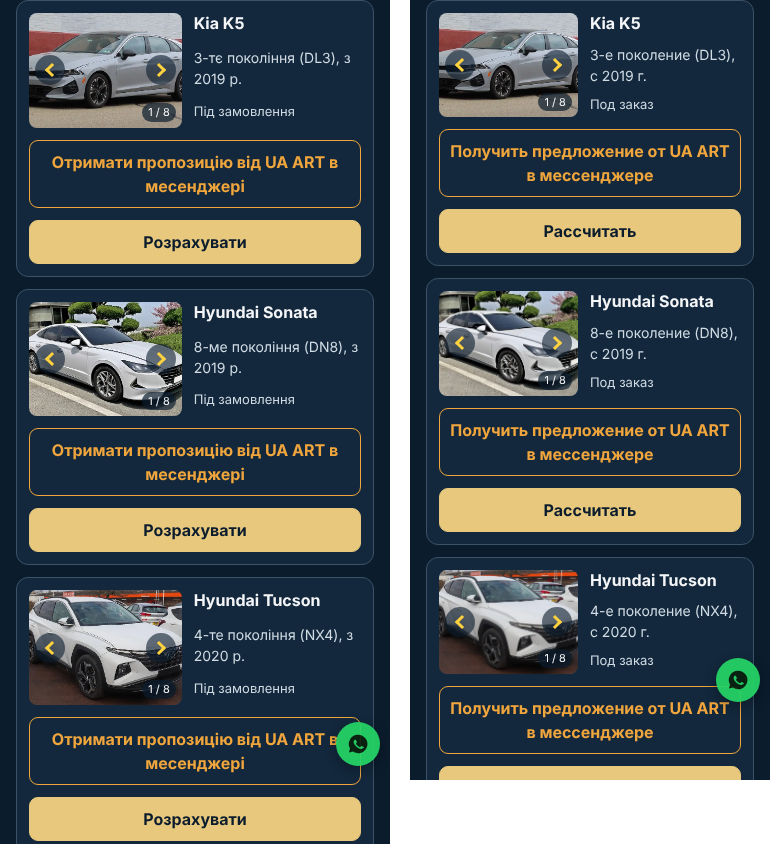
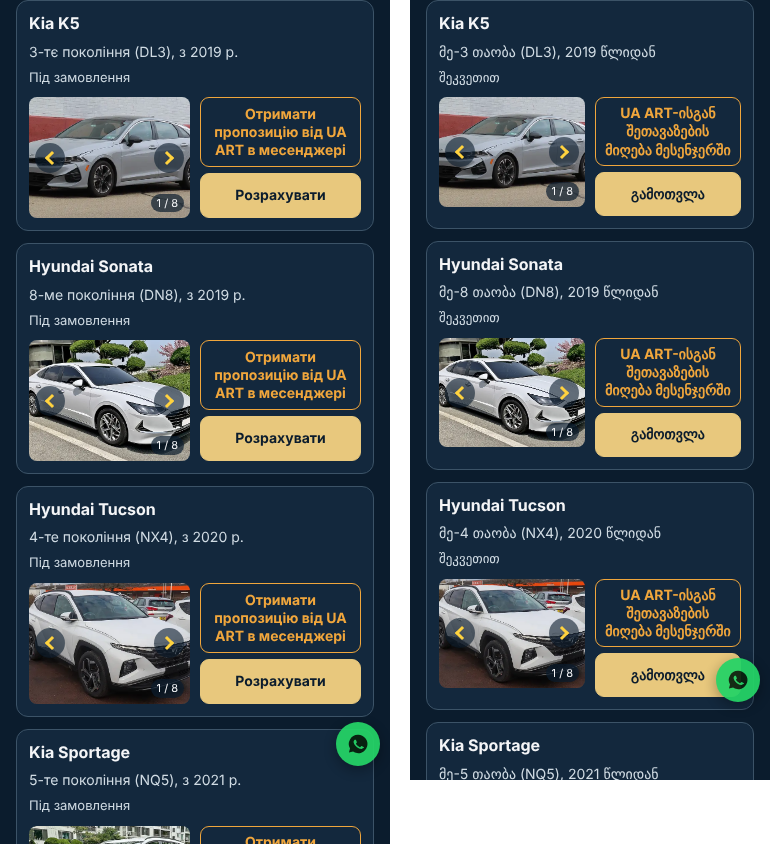
MODEL-GALLERY-001: phone card — name on top, photo left with both buttons stacked right (square block); preview R4 request
Claude-Session: https://claude.ai/code/session_0172XcuYMDyo6BFAXzekqysj

diff --git a/cloud/model_gallery_install_001/site/gallery.css b/cloud/model_gallery_install_001/site/gallery.css
@@ -16,14 +16,19 @@
 .ua-order .gallery-next::after { right:22px; transform:rotate(-45deg); }
 .ua-order .gallery-count { position:absolute; right:8px; bottom:8px; padding:2px 8px; border-radius:10px; background:rgba(11,28,45,.7); color:#f4f5f7; font-size:12px; line-height:1.5; pointer-events:none; }
 .ua-order .model .generation { font-size:14px; color:#d0dbe3; }
-/* Phones (the site's own 640px breakpoint): photo on the left beside the name and generation,
-   the card's buttons full width below both, so long button texts stay readable. */
+/* Phones (the site's own 640px breakpoint): name, generation and tag on top across the card;
+   below them the photo on the left and the card's buttons stacked on the right, one square block. */
 @media(max-width:640px) {
- .ua-order .model:has(> .model-media > .gallery) { display:grid; grid-template-columns:minmax(0,46%) minmax(0,1fr); grid-auto-rows:auto; column-gap:12px; row-gap:6px; padding:12px; align-items:start; }
+ .ua-order .model:has(> .model-media > .gallery) { display:grid; grid-template-columns:minmax(0,1fr) minmax(0,1fr); column-gap:10px; row-gap:6px; padding:12px; }
  .ua-order .model:has(> .model-media > .gallery) > .model-info { display:contents; }
- .ua-order .model-media:has(> .gallery) { grid-column:1; grid-row:1 / span 3; width:auto; min-height:0; aspect-ratio:4/3; border-radius:8px; }
- .ua-order .model:has(> .model-media > .gallery) .model-info > :not(button) { grid-column:2; }
- .ua-order .model:has(> .model-media > .gallery) .model-info > button { grid-column:1 / -1; margin-top:6px; }
+ .ua-order .model:has(> .model-media > .gallery) h3 { grid-row:1; grid-column:1 / -1; }
+ .ua-order .model:has(> .model-media > .gallery) .generation { grid-row:2; grid-column:1 / -1; }
+ .ua-order .model:has(> .model-media > .gallery) .tag { grid-row:3; grid-column:1 / -1; }
+ .ua-order .model-media:has(> .gallery) { grid-row:4 / span 2; grid-column:1; width:auto; min-height:0; aspect-ratio:4/3; border-radius:8px; margin-top:4px; }
+ .ua-order .model:has(> .model-media > .gallery) .model-info > button { grid-column:2; margin-top:0; padding:6px 8px; font-size:14px; line-height:1.3; }
+ .ua-order .model:has(> .model-media > .gallery) .model-info > button:nth-last-of-type(2) { grid-row:4; margin-top:4px; }
+ .ua-order .model:has(> .model-media > .gallery) .model-info > button:last-of-type { grid-row:5; }
+ .ua-order .model:has(> .model-media > .gallery) .model-info > button:only-of-type { grid-row:4 / span 2; align-self:end; }
  .ua-order .gallery > button::before { width:30px; height:30px; margin-top:-15px; }
  .ua-order .gallery > button::after { width:10px; height:10px; margin-top:-5px; }
  .ua-order .gallery-prev::before { left:6px; } .ua-order .gallery-next::before { right:6px; }

diff --git a/cloud/model_gallery_install_001/gallery_assets.py b/cloud/model_gallery_install_001/gallery_assets.py
@@ -2,7 +2,7 @@
 PHOTO_MODULES = ('photos_a', 'photos_b', 'photos_c', 'photos_d', 'photos_e', 'photos_f', 'photos_g', 'photos_h', 'photos_i', 'photos_j', 'photos_k', 'photos_l', 'photos_m', 'photos_n')
 FILES = {
     'video/order/gallery.css': (
-        ".ua-order .gallery { position:relative; place-self:stretch; overflow:hidden; }\n.ua-order .gallery img { position:absolute; inset:0; width:100%; height:100%; object-fit:cover; }\n.ua-order .gallery .gallery-in { animation:ua-gallery-in .25s ease-out; }\n@keyframes ua-gallery-in { from { opacity:.35; } to { opacity:1; } }\n@media (prefers-reduced-motion:reduce) { .ua-order .gallery .gallery-in { animation:none; } }\n.ua-order .gallery > button { position:absolute; top:0; bottom:0; width:50%; min-height:0; margin:0; padding:0; border:0; border-radius:0; background:transparent; }\n.ua-order .gallery > button:focus-visible { outline-offset:-3px; }\n.ua-order .gallery > button::before { content:''; position:absolute; top:50%; width:36px; height:36px; margin-top:-18px; border-radius:50%; background:rgba(11,28,45,.6); transition:background .15s; }\n.ua-order .gallery > button:hover::before { background:rgba(11,28,45,.85); }\n.ua-order .gallery > button::after { content:''; position:absolute; top:50%; width:12px; height:12px; margin-top:-6px; border:solid #ffd23f; border-width:0 3px 3px 0; }\n.ua-order .gallery-prev { left:0; }\n.ua-order .gallery-next { right:0; }\n.ua-order .gallery-prev::before { left:8px; }\n.ua-order .gallery-next::before { right:8px; }\n.ua-order .gallery-prev::after { left:22px; transform:rotate(135deg); }\n.ua-order .gallery-next::after { right:22px; transform:rotate(-45deg); }\n.ua-order .gallery-count { position:absolute; right:8px; bottom:8px; padding:2px 8px; border-radius:10px; background:rgba(11,28,45,.7); color:#f4f5f7; font-size:12px; line-height:1.5; pointer-events:none; }\n.ua-order .model .generation { font-size:14px; color:#d0dbe3; }\n/* Phones (the site's own 640px breakpoint): photo on the left beside the name and generation,\n   the card's buttons full width below both, so long button texts stay readable. */\n@media(max-width:640px) {\n .ua-order .model:has(> .model-media > .gallery) { display:grid; grid-template-columns:minmax(0,46%) minmax(0,1fr); grid-auto-rows:auto; column-gap:12px; row-gap:6px; padding:12px; align-items:start; }\n .ua-order .model:has(> .model-media > .gallery) > .model-info { display:contents; }\n .ua-order .model-media:has(> .gallery) { grid-column:1; grid-row:1 / span 3; width:auto; min-height:0; aspect-ratio:4/3; border-radius:8px; }\n .ua-order .model:has(> .model-media > .gallery) .model-info > :not(button) { grid-column:2; }\n .ua-order .model:has(> .model-media > .gallery) .model-info > button { grid-column:1 / -1; margin-top:6px; }\n .ua-order .gallery > button::before { width:30px; height:30px; margin-top:-15px; }\n .ua-order .gallery > button::after { width:10px; height:10px; margin-top:-5px; }\n .ua-order .gallery-prev::before { left:6px; } .ua-order .gallery-next::before { right:6px; }\n .ua-order .gallery-prev::after { left:18px; } .ua-order .gallery-next::after { right:18px; }\n .ua-order .gallery-count { right:6px; bottom:6px; font-size:11px; padding:1px 6px; }\n}\n"
+        ".ua-order .gallery { position:relative; place-self:stretch; overflow:hidden; }\n.ua-order .gallery img { position:absolute; inset:0; width:100%; height:100%; object-fit:cover; }\n.ua-order .gallery .gallery-in { animation:ua-gallery-in .25s ease-out; }\n@keyframes ua-gallery-in { from { opacity:.35; } to { opacity:1; } }\n@media (prefers-reduced-motion:reduce) { .ua-order .gallery .gallery-in { animation:none; } }\n.ua-order .gallery > button { position:absolute; top:0; bottom:0; width:50%; min-height:0; margin:0; padding:0; border:0; border-radius:0; background:transparent; }\n.ua-order .gallery > button:focus-visible { outline-offset:-3px; }\n.ua-order .gallery > button::before { content:''; position:absolute; top:50%; width:36px; height:36px; margin-top:-18px; border-radius:50%; background:rgba(11,28,45,.6); transition:background .15s; }\n.ua-order .gallery > button:hover::before { background:rgba(11,28,45,.85); }\n.ua-order .gallery > button::after { content:''; position:absolute; top:50%; width:12px; height:12px; margin-top:-6px; border:solid #ffd23f; border-width:0 3px 3px 0; }\n.ua-order .gallery-prev { left:0; }\n.ua-order .gallery-next { right:0; }\n.ua-order .gallery-prev::before { left:8px; }\n.ua-order .gallery-next::before { right:8px; }\n.ua-order .gallery-prev::after { left:22px; transform:rotate(135deg); }\n.ua-order .gallery-next::after { right:22px; transform:rotate(-45deg); }\n.ua-order .gallery-count { position:absolute; right:8px; bottom:8px; padding:2px 8px; border-radius:10px; background:rgba(11,28,45,.7); color:#f4f5f7; font-size:12px; line-height:1.5; pointer-events:none; }\n.ua-order .model .generation { font-size:14px; color:#d0dbe3; }\n/* Phones (the site's own 640px breakpoint): name, generation and tag on top across the card;\n   below them the photo on the left and the card's buttons stacked on the right, one square block. */\n@media(max-width:640px) {\n .ua-order .model:has(> .model-media > .gallery) { display:grid; grid-template-columns:minmax(0,1fr) minmax(0,1fr); column-gap:10px; row-gap:6px; padding:12px; }\n .ua-order .model:has(> .model-media > .gallery) > .model-info { display:contents; }\n .ua-order .model:has(> .model-media > .gallery) h3 { grid-row:1; grid-column:1 / -1; }\n .ua-order .model:has(> .model-media > .gallery) .generation { grid-row:2; grid-column:1 / -1; }\n .ua-order .model:has(> .model-media > .gallery) .tag { grid-row:3; grid-column:1 / -1; }\n .ua-order .model-media:has(> .gallery) { grid-row:4 / span 2; grid-column:1; width:auto; min-height:0; aspect-ratio:4/3; border-radius:8px; margin-top:4px; }\n .ua-order .model:has(> .model-media > .gallery) .model-info > button { grid-column:2; margin-top:0; padding:6px 8px; font-size:14px; line-height:1.3; }\n .ua-order .model:has(> .model-media > .gallery) .model-info > button:nth-last-of-type(2) { grid-row:4; margin-top:4px; }\n .ua-order .model:has(> .model-media > .gallery) .model-info > button:last-of-type { grid-row:5; }\n .ua-order .model:has(> .model-media > .gallery) .model-info > button:only-of-type { grid-row:4 / span 2; align-self:end; }\n .ua-order .gallery > button::before { width:30px; height:30px; margin-top:-15px; }\n .ua-order .gallery > button::after { width:10px; height:10px; margin-top:-5px; }\n .ua-order .gallery-prev::before { left:6px; } .ua-order .gallery-next::before { right:6px; }\n .ua-order .gallery-prev::after { left:18px; } .ua-order .gallery-next::after { right:18px; }\n .ua-order .gallery-count { right:6px; bottom:6px; font-size:11px; padding:1px 6px; }\n}\n"
     ),
     'video/order/gallery.js': (
         "// Photo switcher of one model card (MODEL-GALLERY-001): the left and right halves of the photo are\n// buttons with yellow arrows; each shows the previous or next photo, wrapping around. A small\n// counter («3 / 9») shows the position; screen readers get it from the photo's alt text.\nexport function gallery(photos, {base, alt, labels, lazy}) {\n  const box=document.createElement('div');\n  box.className='gallery';\n  box.setAttribute('role','group');\n  box.setAttribute('aria-roledescription',labels.gallery);\n  box.setAttribute('aria-label',alt);\n  const img=document.createElement('img');\n  img.decoding='async';img.loading=lazy?'lazy':'eager';\n  const count=document.createElement('span');\n  count.className='gallery-count';count.setAttribute('aria-hidden','true');\n  let index=0;\n  const url=i=>new URL(photos[i].path,base);\n  function show(next) {\n    index=(next+photos.length)%photos.length;\n    const photo=photos[index];\n    img.src=url(index);img.width=photo.width;img.height=photo.height;\n    img.alt=`${alt} — ${index+1}/${photos.length}`;\n    count.textContent=`${index+1} / ${photos.length}`;\n  }\n  show(0);\n  box.append(img);\n  if(photos.length<2) return box;\n  box.append(count);\n  for(const [step,side,label] of [[-1,'prev',labels.prev],[1,'next',labels.next]]) {\n    const button=document.createElement('button');\n    button.type='button';button.className=`gallery-${side}`;button.setAttribute('aria-label',label);\n    button.addEventListener('click',()=>{\n      img.classList.remove('gallery-in');void img.offsetWidth;img.classList.add('gallery-in');\n      show(index+step);\n      new Image().src=url((index+step+photos.length)%photos.length);\n    });\n    box.append(button);\n  }\n  return box;\n}\n"

diff --git a/cloud/model_gallery_install_001/release_constants.py b/cloud/model_gallery_install_001/release_constants.py
@@ -1,5 +1,5 @@
 """Order page model gallery release (MODEL-GALLERY-001); no private source in this package."""
 # One place for the task names: make_release.py writes the requests, the controller accepts only these.
-PREVIEW_TASK = 'MODEL-GALLERY-PREFLIGHT-20261027-R3'
-INSTALL_TASK = 'MODEL-GALLERY-INSTALL-20261027-R3'
+PREVIEW_TASK = 'MODEL-GALLERY-PREFLIGHT-20261027-R4'
+INSTALL_TASK = 'MODEL-GALLERY-INSTALL-20261027-R4'
 PACKAGE = 'cloud/model_gallery_install_001'
